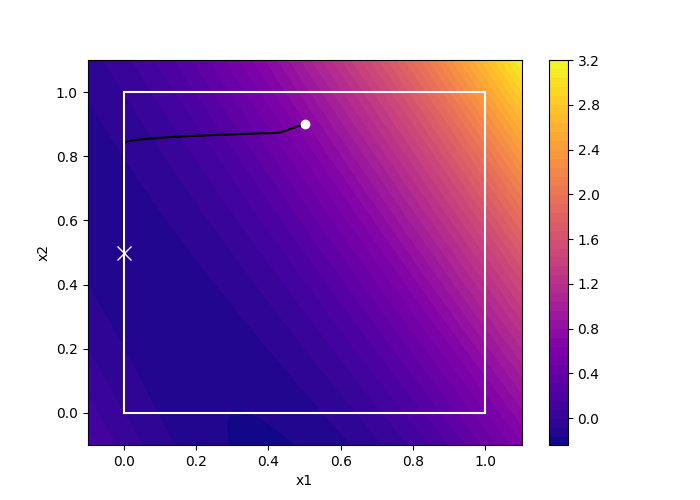
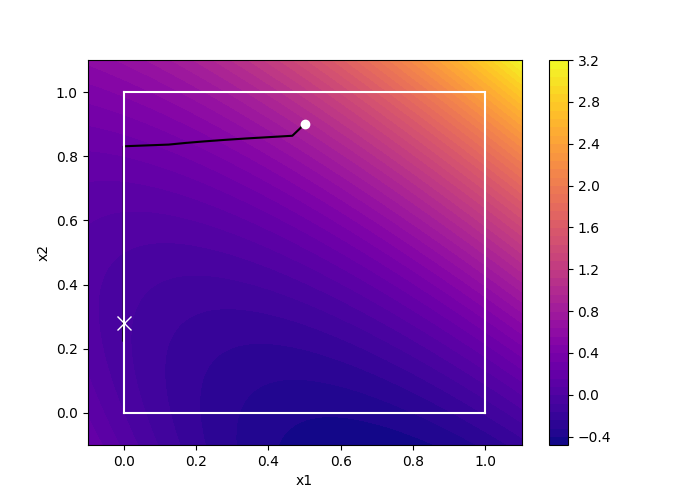
added some default vaues, notably one optimization specification for the initial ascent

diff --git a/hmip/hopfield.py b/hmip/hopfield.py
@@ -6,14 +6,18 @@ DEFAULT_ACTIVATION_TYPE = 'sin'
 DEFAULT_INITIAL_ASCENT_TYPE = 'no_ascent'
 DEFAULT_STEP_TYPE = 'classic'
 DEFAULT_DIRECTION_TYPE = 'binary'
+DEFAULT_ABSORPTION = None
+DEFAULT_STOP_ASCENT = 0.1
+DEFAULT_GAMMA = 0.9
+DEFAULT_THETA = 0.1
 
 
 # TODO(Mathilde): find another name fot L and H -> should be lower case
 def hopfield(H, q, lb, ub, binary_indicator,
-             k_max=0, absorption=None, gamma=0.9, theta=0.1,
+             k_max=0, absorption=DEFAULT_ABSORPTION, gamma=DEFAULT_GAMMA, theta=DEFAULT_THETA,
              x_0=None, beta=None, alpha=None,
              step_type=DEFAULT_STEP_TYPE, direction_type=DEFAULT_DIRECTION_TYPE,
-             activation_type=DEFAULT_ACTIVATION_TYPE, initial_ascent_type=DEFAULT_INITIAL_ASCENT_TYPE):
+             activation_type=DEFAULT_ACTIVATION_TYPE, initial_ascent_type=DEFAULT_INITIAL_ASCENT_TYPE, ascent_stop=DEFAULT_STOP_ASCENT):
     """
 
     Solves the following optimization problem by computing the Hopfield method
@@ -64,7 +68,7 @@ def hopfield(H, q, lb, ub, binary_indicator,
 
     smoothness_coef = smoothness_coefficient(H)
 
-    x0 = initial_state(H, q, lb, ub, binary_indicator, k_max, smoothness_coef, x_0, initial_ascent_type)
+    x0 = initial_state(H, q, lb, ub, binary_indicator, k_max, smoothness_coef, x_0, initial_ascent_type, ascent_stop)
 
     x[:, 0] = x0
     x_h[:, 0] = inverse_activation(x0, lb, ub, beta, activation_type)
@@ -137,18 +141,18 @@ def absorb_solution_to_limits(x, ub, lb, absorption_val):
 
 
 def initial_state(H, q, lb, ub, binary_indicator, k_max, smoothness_coeff, x_0,
-                  initial_ascent_type):
+                  initial_ascent_type, ascent_stop):
     if x_0 is None or not utils.is_in_box(x_0, ub, lb):
         # x_0 = lb + (ub - lb) / 2
         x_0 = lb + (ub - lb) / 2
 
     if initial_ascent_type is 'ascent':
         k = 0
-        while k < k_max and utils.is_in_box(x_0, ub - 0.1, lb + 0.1):
+        while k < k_max and utils.is_in_box(x_0, ub - ascent_stop, lb + ascent_stop):
             grad_f = np.dot(H, x_0) + q
             x_0 = x_0 + (1 / smoothness_coeff) * grad_f
             k = k + 1
-        x_0 = activation(x_0, lb + 0.1, ub - 0.1, np.ones(len(x_0)), activation_type='pwl')
+        x_0 = activation(x_0, lb + ascent_stop, ub - ascent_stop, np.ones(len(x_0)), activation_type='pwl')
 
 
     elif initial_ascent_type is 'binary_neutral_ascent':
@@ -157,7 +161,7 @@ def initial_state(H, q, lb, ub, binary_indicator, k_max, smoothness_coeff, x_0,
             grad_f = np.dot(H, x_0) + q
             x_0 = x_0 + (1 / smoothness_coeff) * np.multiply(grad_f, np.ones(len(x_0))-binary_indicator)
             k = k + 1
-        x_0 = activation(x_0, lb + 0.1, ub - 0.1, np.ones(len(x_0)), activation_type='pwl')
+        x_0 = activation(x_0, lb + ascent_stop, ub - ascent_stop, np.ones(len(x_0)), activation_type='pwl')
 
     return x_0
 

diff --git a/visualizations/test_bertrand.py b/visualizations/test_bertrand.py
@@ -4,13 +4,13 @@ import hmip.hopfield as hop
 from visualizations.utils_visuals import plot_evolution_objective_function_2d
 
 
-H = np.array([[3.1, 1.9], [1, 1]])
-q = np.array([-1, -0.5])
+H = np.array([[2.5, 2.1], [1, 2]])
+q = np.array([-1.4, -0.5])
 k_max = 300
 binary_indicator = np.array([1, 0])
 ub = np.array([1, 1])
 lb = np.array([0, 0])
 
-x, x_h, f_val_hist, step_size = hop.hopfield(H, q, lb, ub, binary_indicator, k_max=k_max, initial_ascent_type='binary_neutral_ascent')
+x, x_h, f_val_hist, step_size = hop.hopfield(H, q, lb, ub, binary_indicator, k_max=k_max, absorption=0.1, initial_ascent_type='binary_neutral_ascent')
 
 plot_evolution_objective_function_2d(H, q, x, k_max, 'plots/objective_function_2d.png')
